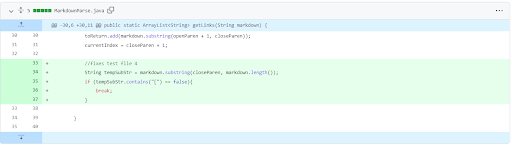
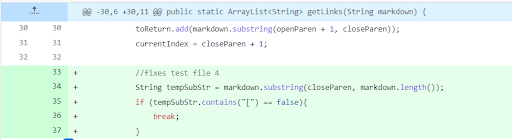
final

diff --git a/Lab Report 2/LabReport2.md b/Lab Report 2/LabReport2.md
@@ -4,7 +4,7 @@
 
     ![](Testfile2Commit.png)
 
-    https://yundukki.github.io/markdown-parser/test-file-2.html
+    [Link to Test File #2](https://yundukki.github.io/markdown-parser/test-file-2.html)
 
     ![](Testfile2Error.png)
 
@@ -14,17 +14,17 @@
 
     ![](Testfile3Commit.png)
 
-    https://yundukki.github.io/markdown-parser/test-file-3.html
+    [Link to Test File #3](https://yundukki.github.io/markdown-parser/test-file-3.html)
 
     ![](Testfile3Error.png)
 
     When removing the parentheses around the link (failure-induced input), it caused the java.lang.StringIndexOutOfBoundsException (sympton). The bug occurs at `toReturn.add(markdown.substring(openParen + 1, closeParen));` but for different reasons than the first. This bug occurs because the index is shifted when we remove both parentheses from the link. 
 
-3. ### Fix #3: Test File #3
+3. ### Fix #3: Test File #4
 
     ![](Testfile4Commit.png)
 
-    https://yundukki.github.io/markdown-parser/test-file-4.html
+    [Link to Test File #4](https://yundukki.github.io/markdown-parser/test-file-4.html)
 
     ![](Testfile4Error.png)
 

diff --git a/index.md b/index.md
@@ -1,5 +1,5 @@
 # Lab Reports
 
-[LabReport#1](https://yundukki.github.io/CSE-Lab-Reports/LabReport1.html)
+[LabReport#1](https://yundukki.github.io/CSE-Lab-Reports/Lab Report 1/LabReport1.html)
 
-[LabReport#2](https://yundukki.github.io/CSE-Lab-Reports/LabReport2.html)
+[LabReport#2](https://yundukki.github.io/CSE-Lab-Reports/Lab Report 2/LabReport2.html)
